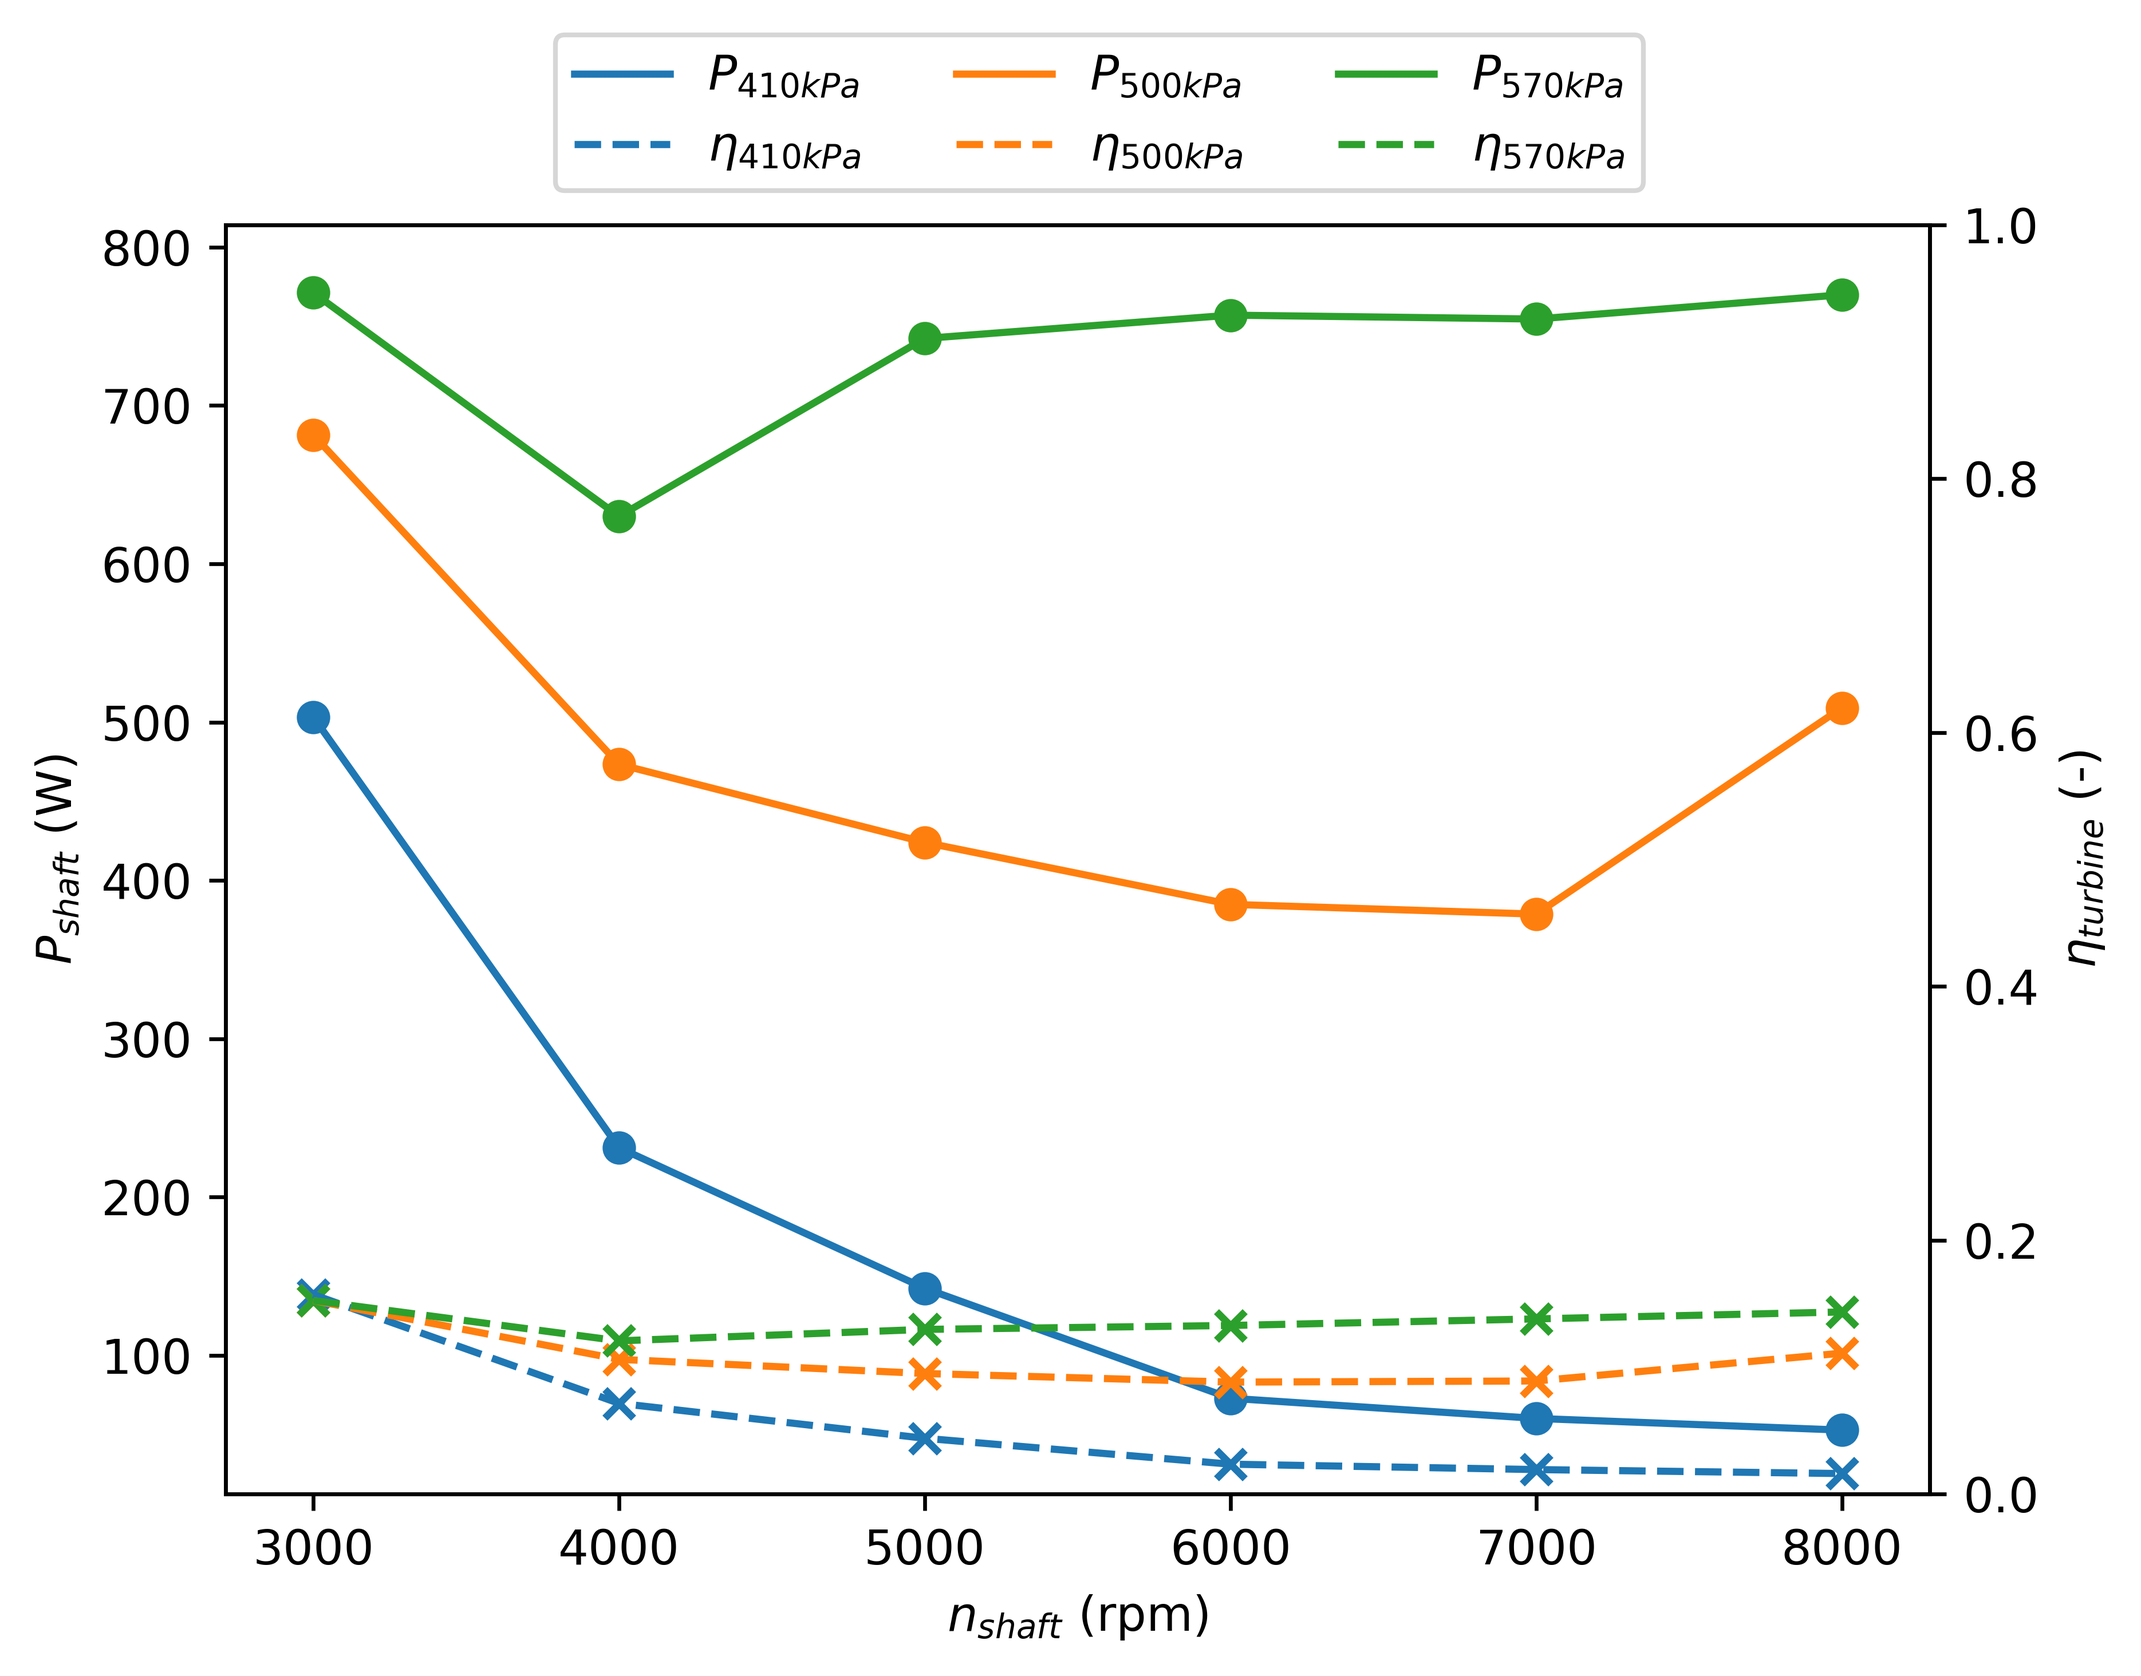
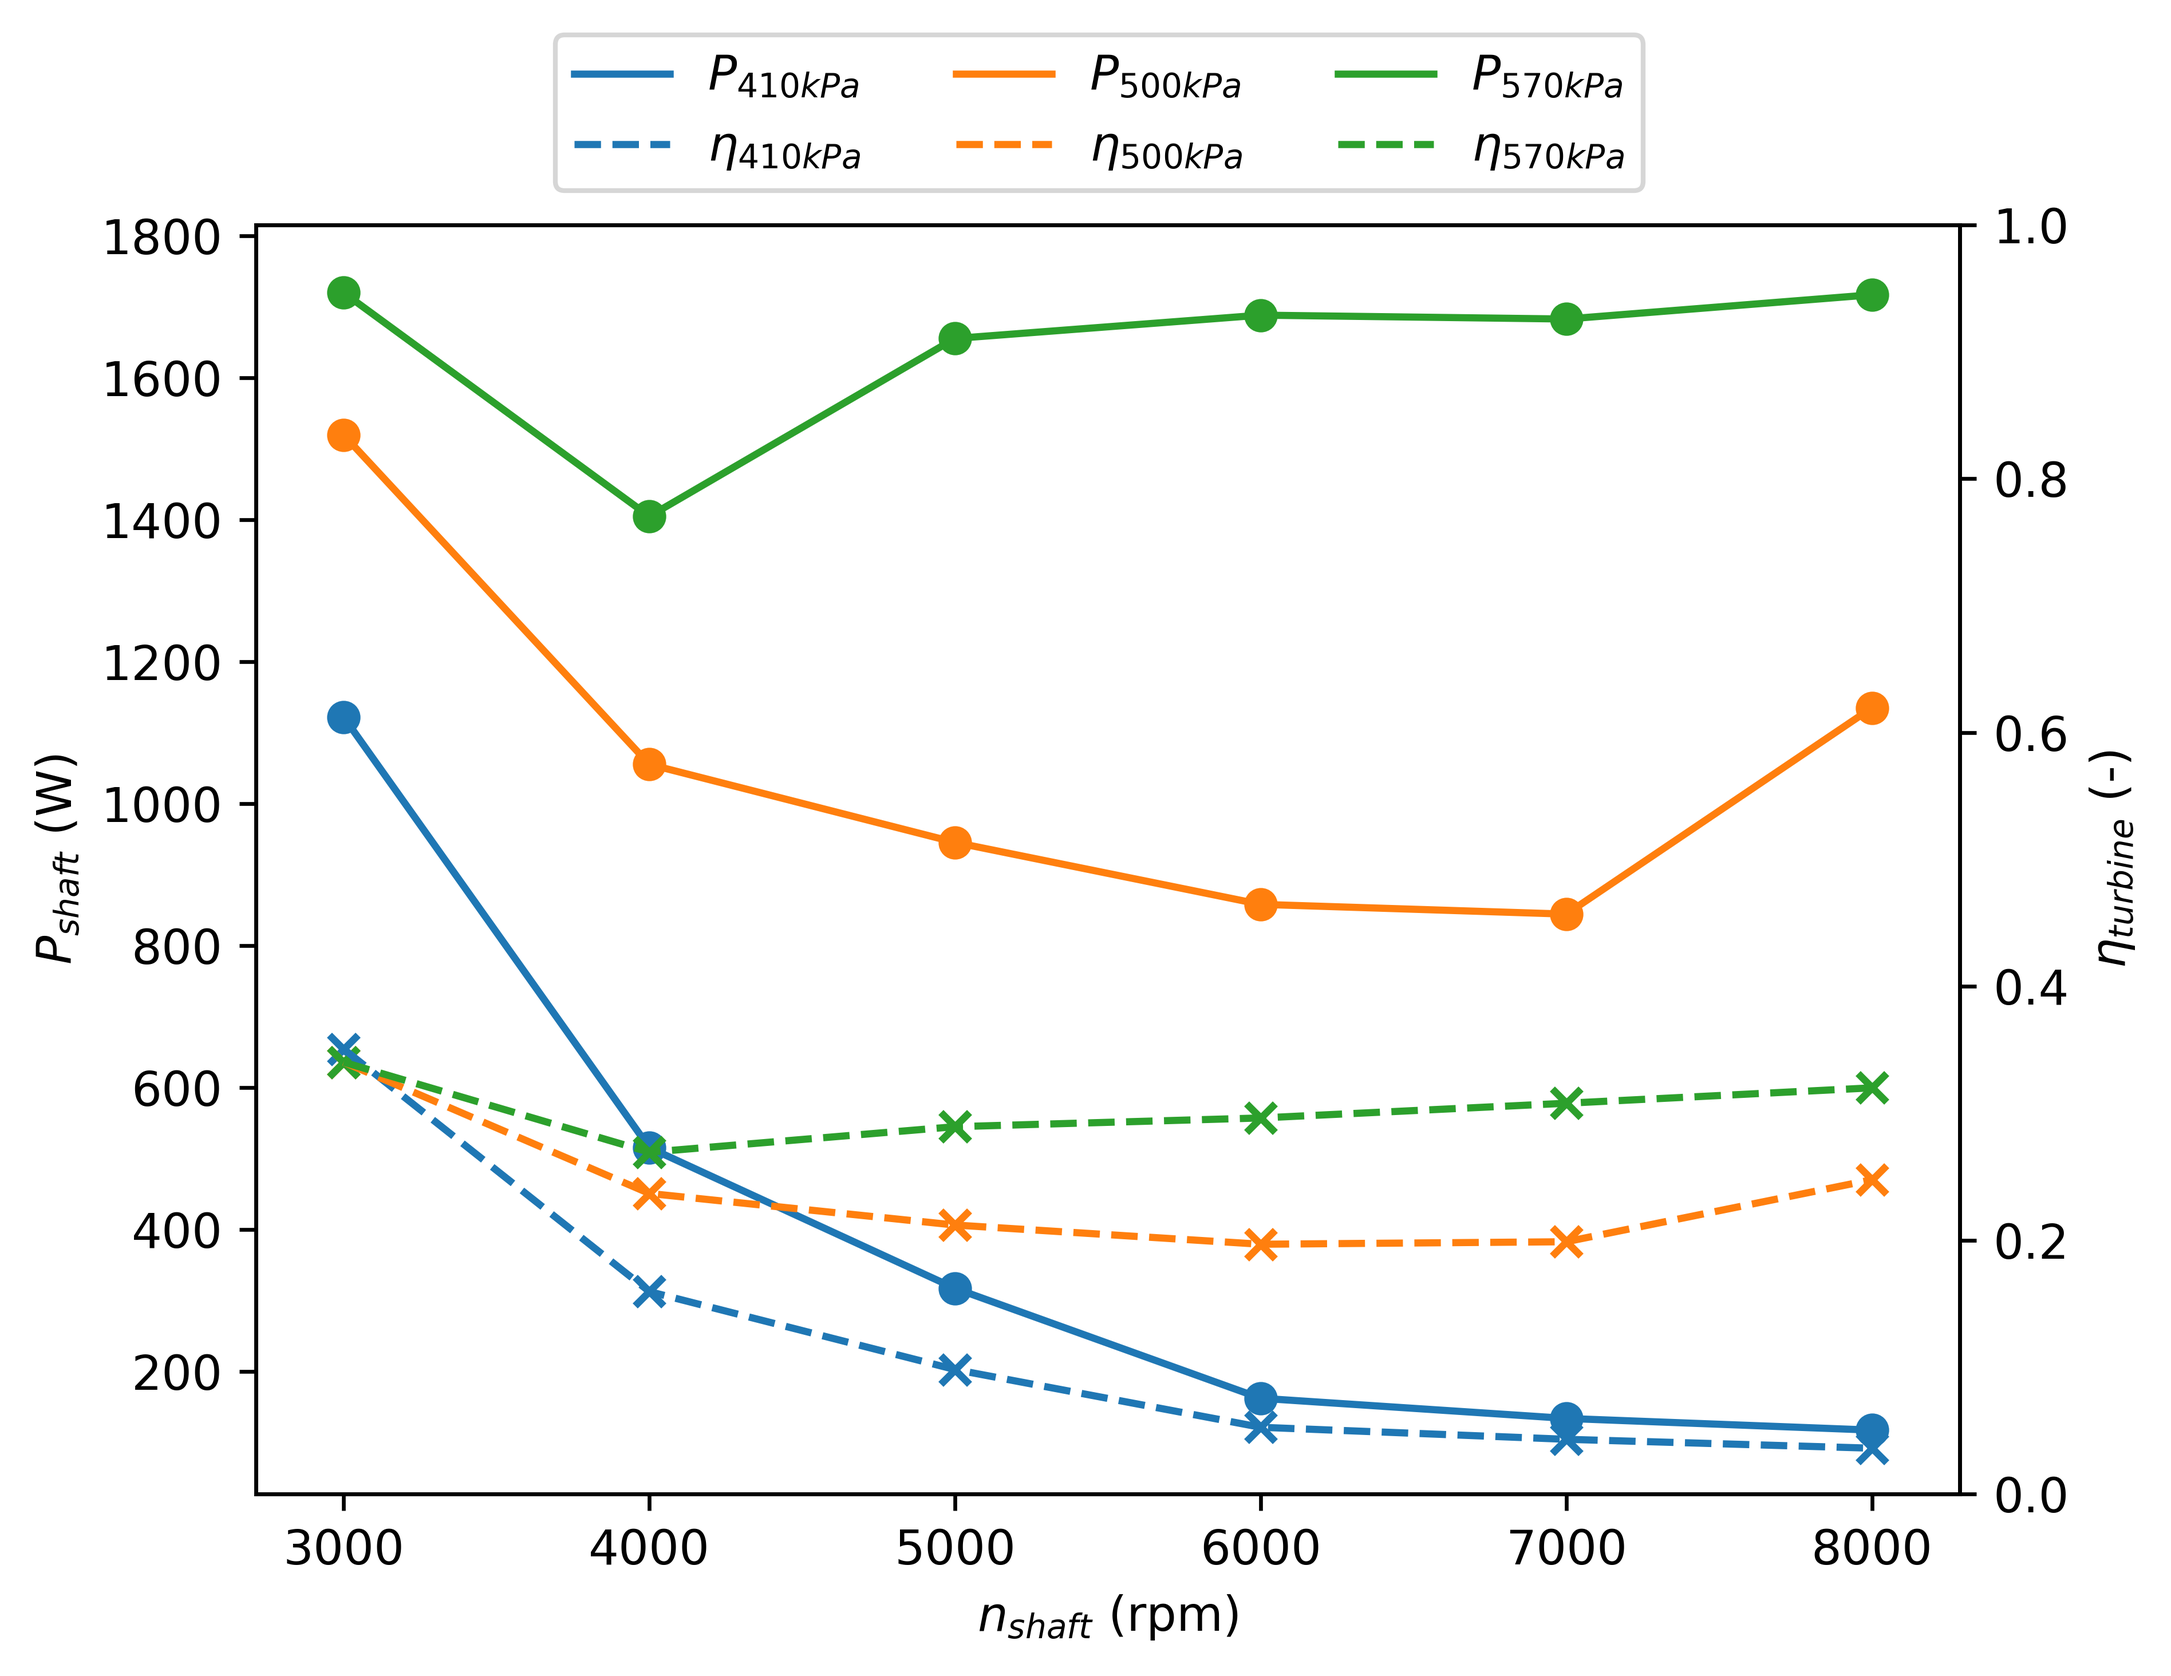
modified:   experimental_data/MM_testrig_CTU/W50_Spratech/P_shaft_vs_n_shaft.png 	modified:   experimental_data/MM_testrig_CTU/W50_Spratech/evaluated_data_2202324.csv 	modified:   experimental_data/MM_testrig_CTU/W50_Spratech/w50_data_eval.py

diff --git a/experimental_data/MM_testrig_CTU/W50_Spratech/w50_data_eval.py b/experimental_data/MM_testrig_CTU/W50_Spratech/w50_data_eval.py
@@ -11,8 +11,7 @@ RP = REFPROPFunctionLibrary(os.environ['RPPREFIX'])
 # Define the REFPROP fluid
 fluid = "MM"# hexamethyldisiloxane
 z = [1.0]   # Mole fractions
-eta_gen = 0.80 # Generator efficiency
-eta_vfd = 0.92 # VFD efficiency
+eta_gen = 0.33 # Generator efficiency
 
 #initialize REFPROP
 RP = REFPROPFunctionLibrary(os.environ['RPPREFIX']) # Instantiate the REFPROP function library
@@ -68,7 +67,7 @@ for pressure, (start_time, end_time) in zip(pressure_levels, time_ranges):
                 'n_gen_avg': rpm_data['n_gen (rpm)'].mean(),
             }
             # Adjust the generator power to get the shaft power
-            averages['P_shaft_avg'] = averages['P_gen_avg'] / eta_gen / eta_vfd
+            averages['P_shaft_avg'] = averages['P_gen_avg'] / eta_gen
             averages['n_shaft_avg'] = averages['n_gen_avg']
 
             # REFPROP calculations
